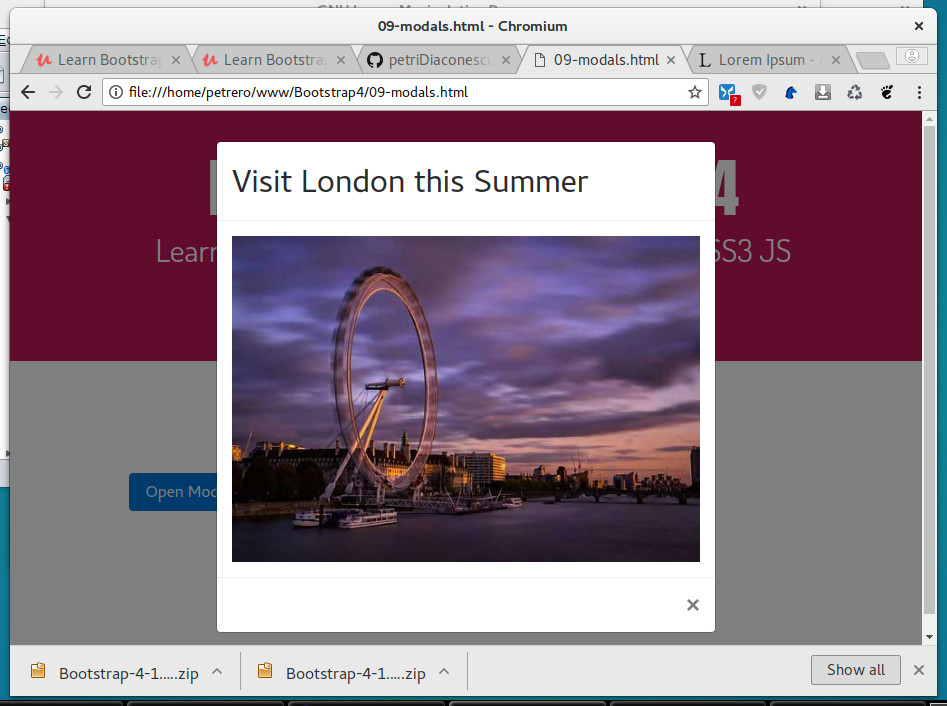
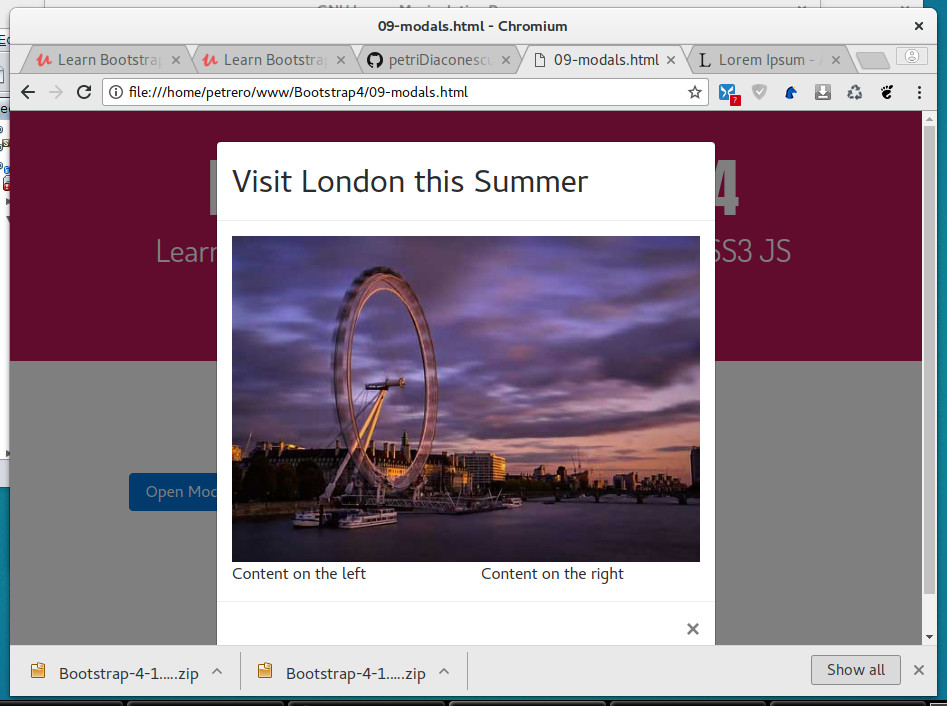
Use grid inside modal dialog

diff --git a/09-modals.html b/09-modals.html
@@ -41,6 +41,10 @@
                 
                 <div class="modal-body">
                   <img src="img/card_01.jpg" alt="" class="img-fluid"/>
+                  <div class="row">
+                    <div class="col-6">Content on the left</div>
+                    <div class="col-6">Content on the right</div>
+                  </div>
                 </div>
                 
                 <div class="modal-footer">
